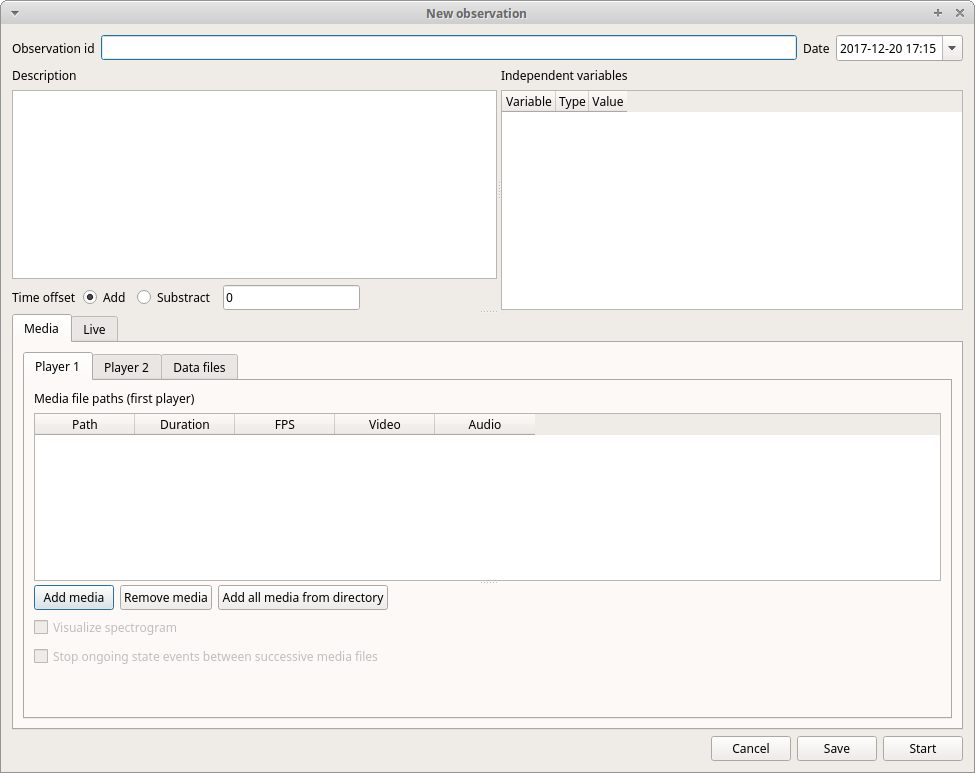
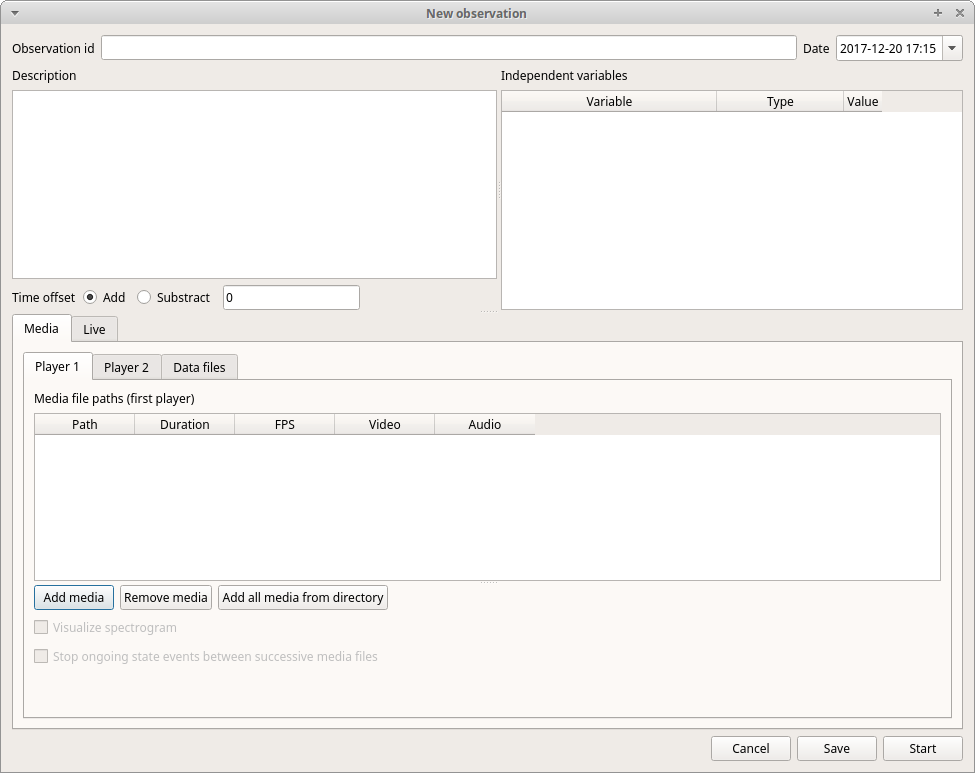
some changes

Changed region(s): [[0.5231, 0.1242, 0.6462, 0.1552], [0.7692, 0.1242, 0.8308, 0.1552], [0.8615, 0.1242, 0.8923, 0.1552]]

diff --git a/index.rst b/index.rst
@@ -552,10 +552,10 @@ In the above tab you can select a time for **Scan sampling** observation. In thi
 Media based observation
 .......................
 
-Choose the **Media tab** to make an obervation based on media.
+Click on the **Media** tab to make an obervation based on media.
 
 
-.. image:: new_observation_playlist.png
+.. image:: media_tab_empty.png
    :alt: Playlist
    :width: 60%
 
